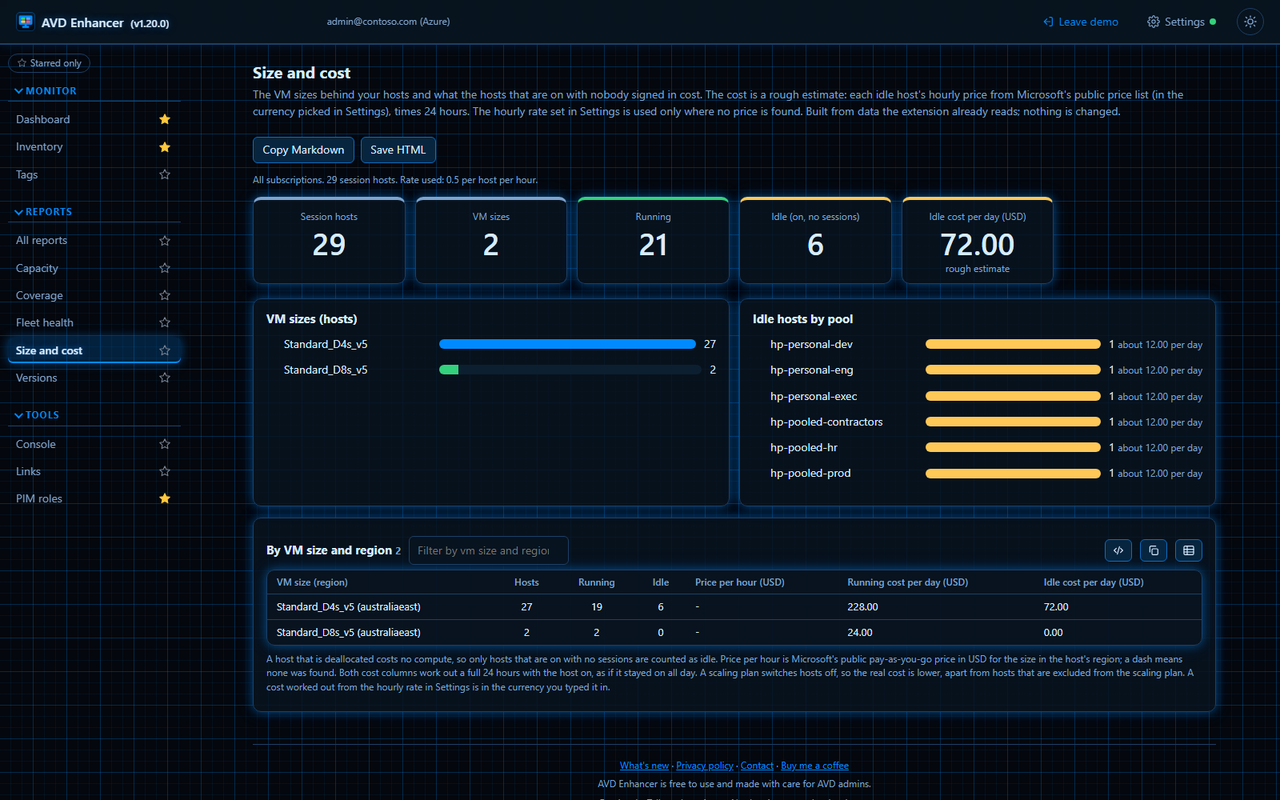
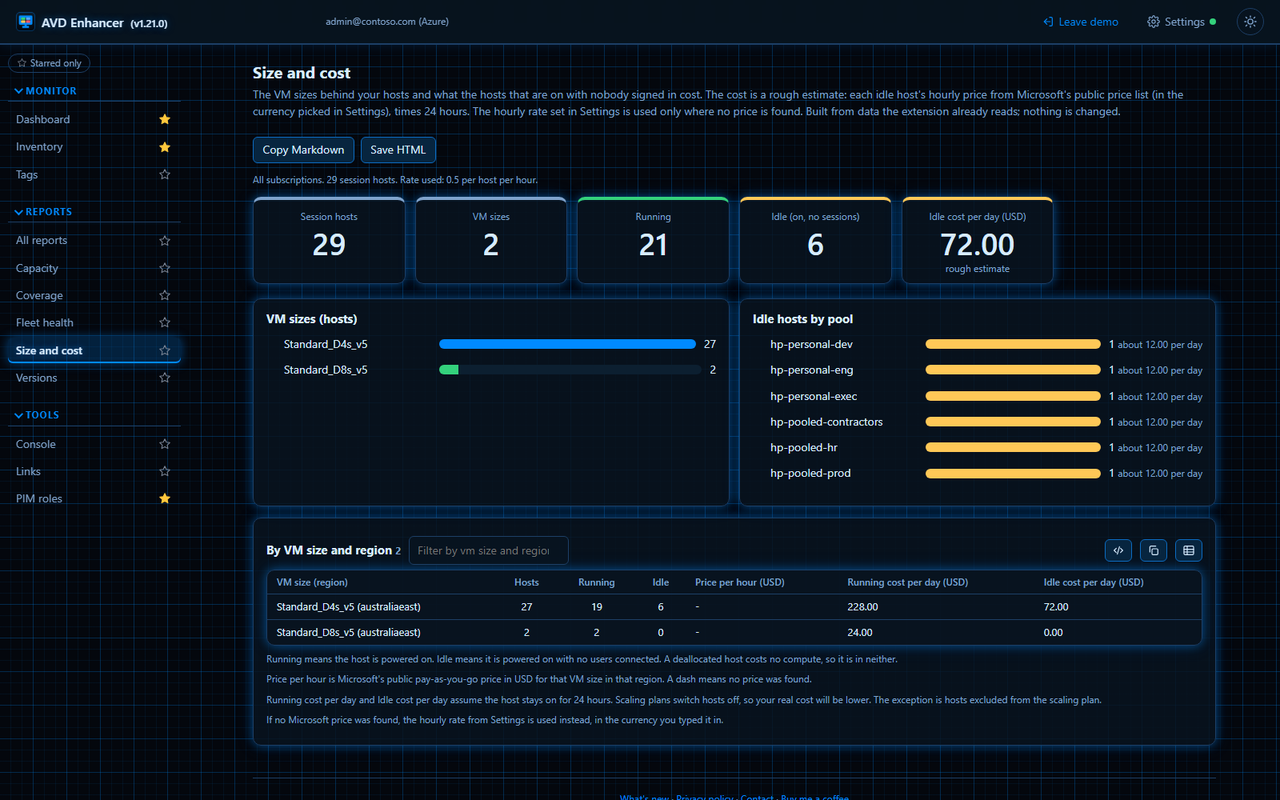
AVD Enhancer: docs updated

Changed region(s): [[0.1875, 0.8125, 0.9688, 1.0], [0.25, 0.0, 0.3438, 0.0312]]

diff --git a/avd-enhancer/whats-new.md b/avd-enhancer/whats-new.md
@@ -6,7 +6,8 @@
 
 **Note:** new versions may appear on this list before the extension stores have approved the update, so the version in the store can be older than the latest one here.
 
-## 1.5.0 to 1.20.0 - 16 November 2026
+## 1.5.0 to 1.21.0 - 16 November 2026
+- **Clearer Size and cost note (1.21.0).** The note under the Size and cost table is now four short lines that say what Running and Idle mean, where the price comes from, that the costs assume a full 24 hours (scaling plans make the real cost lower) and when your Settings rate is used.
 - **Idle cost uses Microsoft's prices (1.20.0).** The Idle hosts tile on the Dashboard now works out its cost a day from Microsoft's public price for each VM size (in the currency you pick in Settings), so you no longer need to type an hourly rate. The rate in Settings is only used for a host where no price is found.
 - **Running cost per day (1.19.0).** The Size and cost table has a new column for what the hosts that are on would cost over a full day, next to the idle cost. Scaling plans switch hosts off, so the real cost is lower. The first-run disclosure now says the extension asks Microsoft's public price list for VM prices.
 - **Real VM prices in Size and cost (1.18.0).** The Size and cost report now looks up Microsoft's public pay-as-you-go hourly price for each VM size in each region and uses it for the idle cost; the hourly rate in Settings is used only where no price is found. The table shows the price an hour. Settings lets you pick the currency (USD by default); Microsoft converts the price, nothing else is used. Prices are list prices and a rough guide only. The table now has a row for each size in each region.
